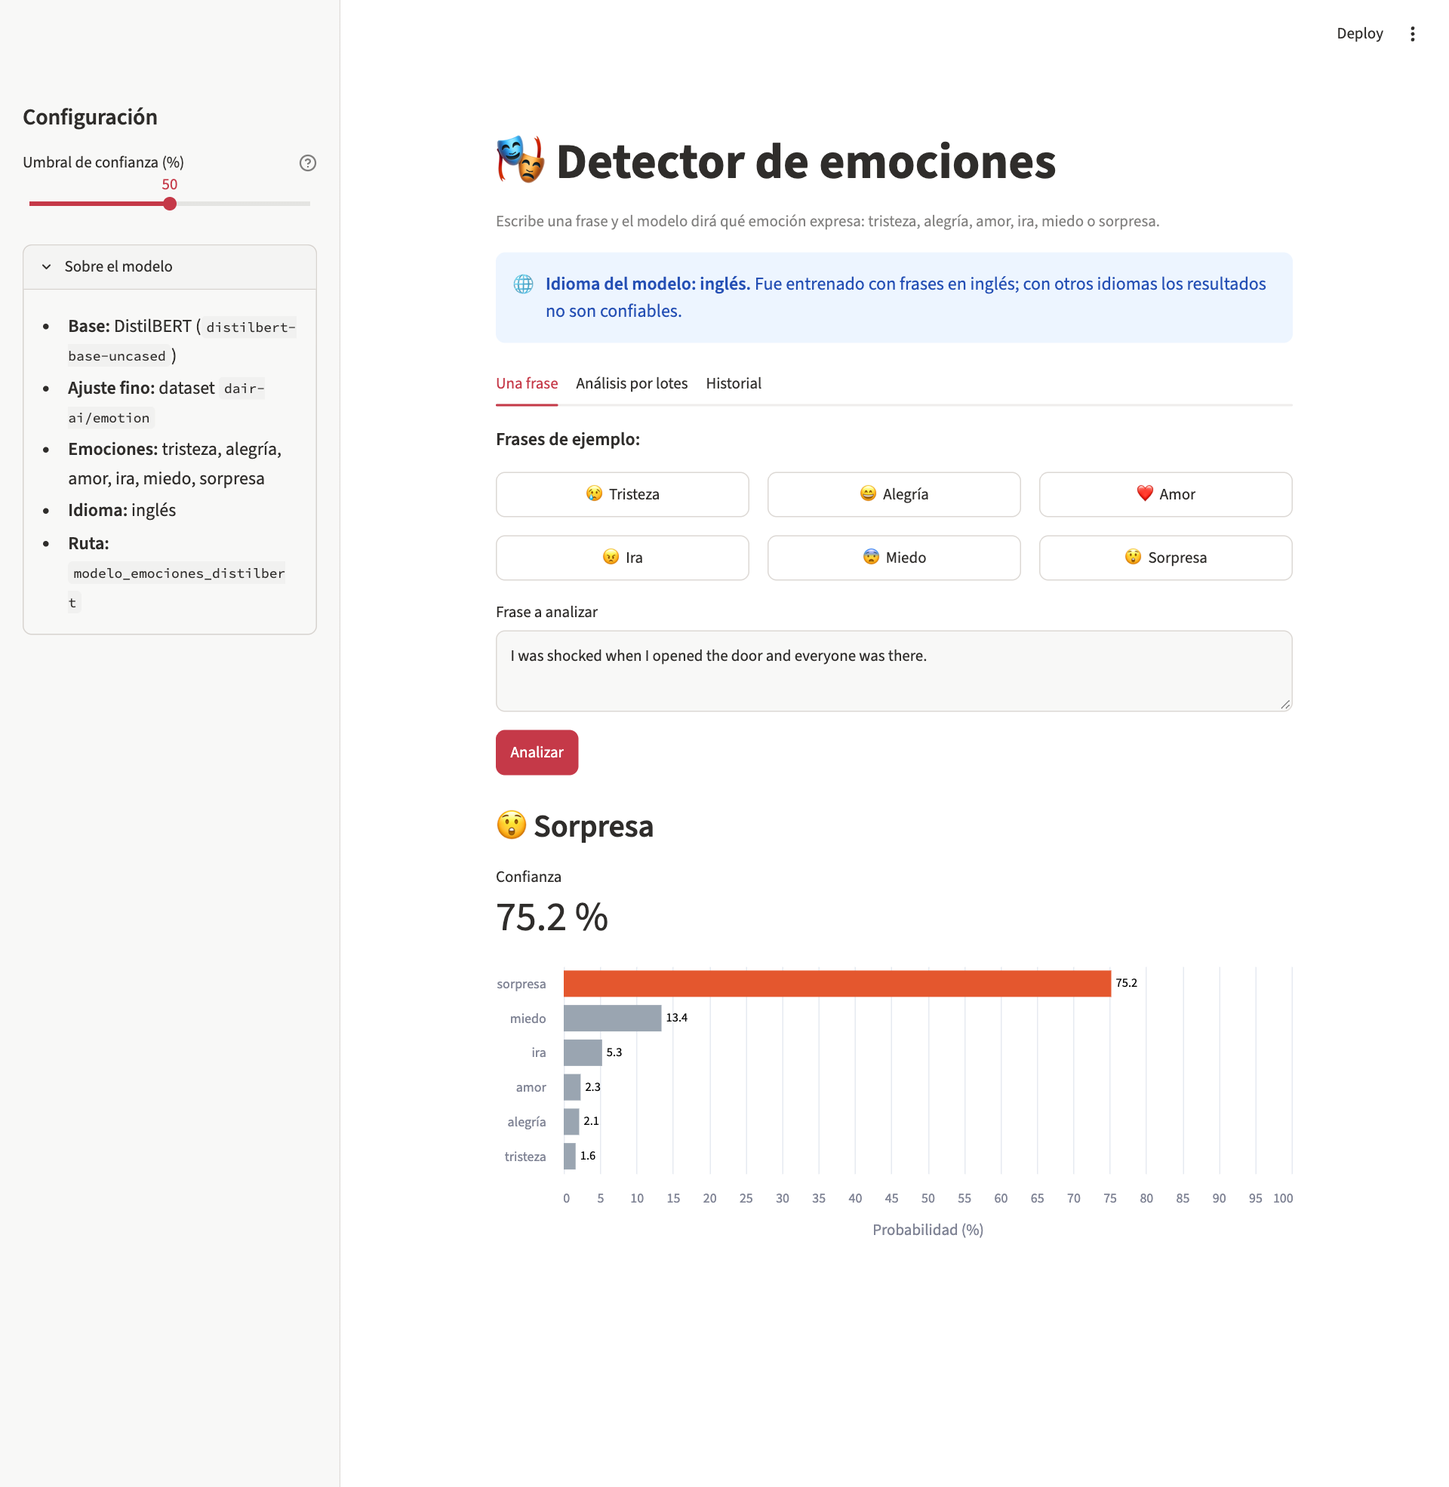
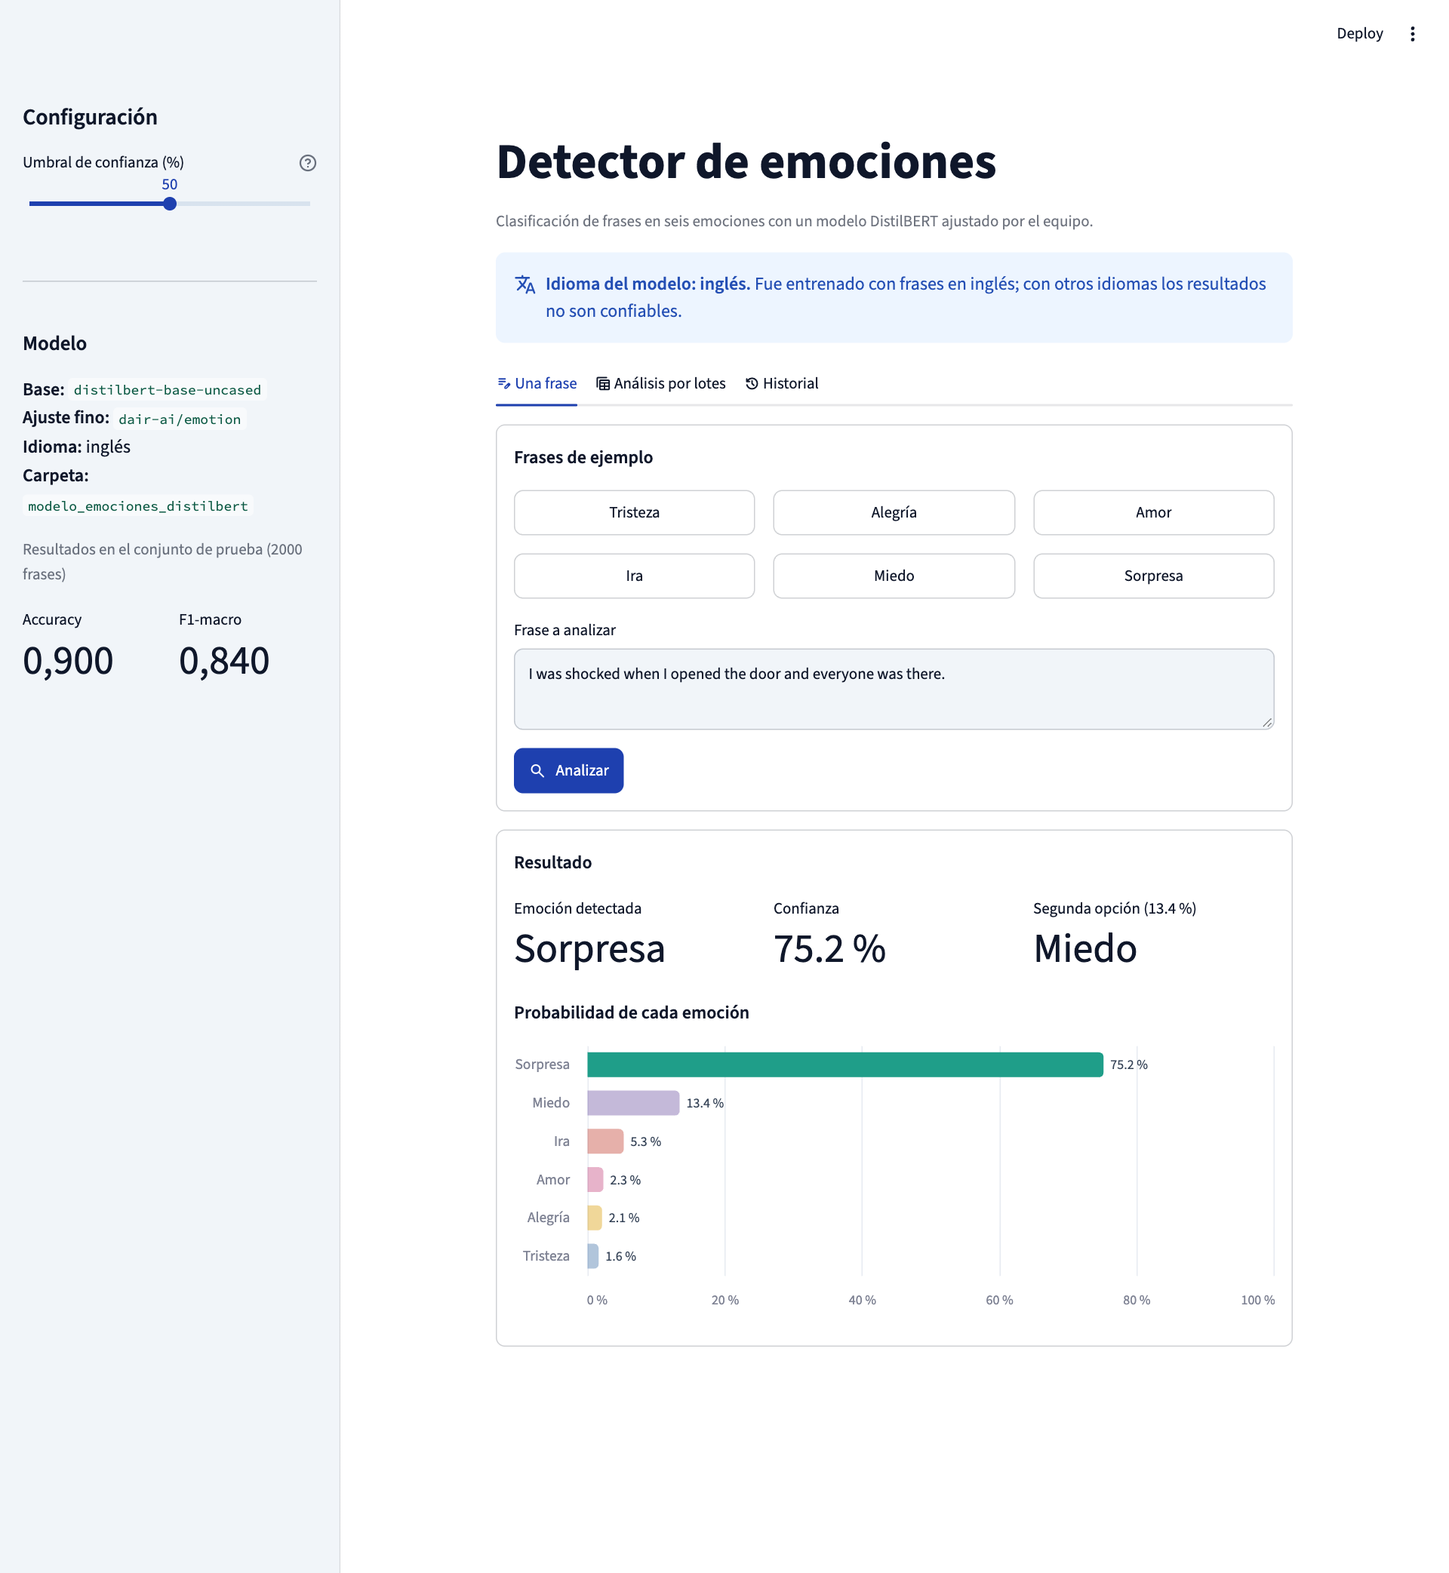
mejora visual

diff --git a/app.py b/app.py
@@ -10,26 +10,34 @@ MODEL_DIR = Path(__file__).parent / "modelo_emociones_distilbert"
 IDIOMA_MODELO = "inglés"
 
 # Etiquetas del dataset dair-ai/emotion (orden original del notebook de clase).
-# Si el modelo guardó nombres genéricos (LABEL_0...), se traducen con este mapa.
+# Si el modelo guardó nombres genéricos (LABEL_0...) o en inglés, se traducen con este mapa.
 ETIQUETAS = {
     "LABEL_0": "tristeza", "LABEL_1": "alegría", "LABEL_2": "amor",
     "LABEL_3": "ira", "LABEL_4": "miedo", "LABEL_5": "sorpresa",
     "sadness": "tristeza", "joy": "alegría", "love": "amor",
     "anger": "ira", "fear": "miedo", "surprise": "sorpresa",
 }
-EMOJIS = {"tristeza": "😢", "alegría": "😄", "amor": "❤",
-          "ira": "😠", "miedo": "😨", "sorpresa": "😲"}
 
-EJEMPLOS = {
-    "😢 Tristeza": "I feel so empty and alone since she left.",
-    "😄 Alegría": "I am so happy, today was the best day of my life!",
-    "❤ Amor": "I feel so loved and cared for when I am with you.",
-    "😠 Ira": "I am furious, they lied to me again.",
-    "😨 Miedo": "I am terrified of walking home alone at night.",
-    "😲 Sorpresa": "I was shocked when I opened the door and everyone was there.",
+# Un color fijo por emoción: se usa en el gráfico y en la distribución del lote.
+COLORES = {
+    "Tristeza": "#3B6EA5", "Alegría": "#D99A00", "Amor": "#C2417A",
+    "Ira": "#C0392B", "Miedo": "#6B4FA0", "Sorpresa": "#1F9E89",
 }
 
-st.set_page_config(page_title="Detector de emociones", page_icon="🎭", layout="centered")
+# Métricas medidas con este modelo sobre el conjunto de prueba (2000 frases), ver README.
+METRICAS_PRUEBA = {"Accuracy": "0,900", "F1-macro": "0,840"}
+
+EJEMPLOS = {
+    "Tristeza": "I feel so empty and alone since she left.",
+    "Alegría": "I am so happy, today was the best day of my life!",
+    "Amor": "I feel so loved and cared for when I am with you.",
+    "Ira": "I am furious, they lied to me again.",
+    "Miedo": "I am terrified of walking home alone at night.",
+    "Sorpresa": "I was shocked when I opened the door and everyone was there.",
+}
+
+st.set_page_config(page_title="Detector de emociones", page_icon=":material/psychology:",
+                   layout="centered")
 
 
 # ---------------------------------------------------------------- modelo
@@ -40,7 +48,8 @@ def cargar_modelo(ruta: str):
 
 
 def traducir(etiqueta: str) -> str:
-    return ETIQUETAS.get(etiqueta, etiqueta)
+    """Devuelve el nombre de la emoción en español y con mayúscula inicial."""
+    return ETIQUETAS.get(etiqueta, etiqueta).capitalize()
 
 
 def a_tabla(salida: list[dict]) -> pd.DataFrame:
@@ -53,6 +62,7 @@ def a_tabla(salida: list[dict]) -> pd.DataFrame:
 
 
 def clasificar(clf, textos: list[str]) -> list[pd.DataFrame]:
+    # truncation=True corta las frases de más de 512 tokens para que el modelo no falle.
     salidas = clf(textos, top_k=None, truncation=True)
     # Con un texto, algunas versiones devuelven lista plana de dicts.
     if salidas and isinstance(salidas[0], dict):
@@ -60,18 +70,44 @@ def clasificar(clf, textos: list[str]) -> list[pd.DataFrame]:
     return [a_tabla(s) for s in salidas]
 
 
-def grafico(df: pd.DataFrame):
-    base = alt.Chart(df).encode(
-        y=alt.Y("Emoción:N", sort="-x", title=None),
-        x=alt.X("Probabilidad (%):Q", scale=alt.Scale(domain=[0, 100]), title="Probabilidad (%)"),
-    )
-    barras = base.mark_bar().encode(
-        tooltip=["Emoción", "Probabilidad (%)"],
-        color=alt.condition(alt.datum["Emoción"] == df.iloc[0]["Emoción"],
-                            alt.value("#e4572e"), alt.value("#9aa5b1")))
-    texto = base.mark_text(align="left", dx=4).encode(text=alt.Text("Probabilidad (%):Q", format=".1f"))
-    return (barras + texto).properties(height=260)
+def escala_colores():
+    """Escala de Altair que asigna a cada emoción su color de COLORES."""
+    return alt.Scale(domain=list(COLORES), range=list(COLORES.values()))
 
+
+def grafico(df: pd.DataFrame):
+    """Barras horizontales ordenadas; la emoción ganadora se ve opaca y el resto atenuado."""
+    df = df.assign(Etiqueta=df["Probabilidad (%)"].map(lambda p: f"{p:.1f} %"))
+    ganadora = df.iloc[0]["Emoción"]
+    base = alt.Chart(df).encode(
+        # La tabla ya viene ordenada de mayor a menor; se usa ese mismo orden en el eje.
+        y=alt.Y("Emoción:N", sort=df["Emoción"].tolist(), title=None,
+                axis=alt.Axis(labelFontSize=13, ticks=False, domain=False)),
+        x=alt.X("Probabilidad (%):Q", scale=alt.Scale(domain=[0, 100]), title=None,
+                axis=alt.Axis(tickCount=5, labelExpr="datum.value + ' %'")),
+    )
+    barras = base.mark_bar(cornerRadiusEnd=4, height=22).encode(
+        color=alt.Color("Emoción:N", scale=escala_colores(), legend=None),
+        opacity=alt.condition(alt.datum["Emoción"] == ganadora, alt.value(1.0), alt.value(0.4)),
+        tooltip=["Emoción", "Probabilidad (%)"])
+    texto = base.mark_text(align="left", dx=6, fontSize=12, color="#334155").encode(text="Etiqueta:N")
+    return (barras + texto).properties(height=250).configure_view(stroke=None)
+
+
+def grafico_distribucion(res: pd.DataFrame):
+    """Cuántas frases del lote cayeron en cada emoción."""
+    conteo = res["Emoción"].value_counts().rename_axis("Emoción").reset_index(name="Frases")
+    return alt.Chart(conteo).mark_bar(cornerRadiusEnd=4, height=22).encode(
+        y=alt.Y("Emoción:N", sort="-x", title=None, axis=alt.Axis(ticks=False, domain=False)),
+        x=alt.X("Frases:Q", title="Número de frases", axis=alt.Axis(tickMinStep=1)),
+        color=alt.Color("Emoción:N", scale=escala_colores(), legend=None),
+        tooltip=["Emoción", "Frases"],
+    ).properties(height=40 * len(conteo) + 30).configure_view(stroke=None)
+
+
+# Muestra la confianza como barra de progreso dentro de las tablas.
+COLUMNA_CONFIANZA = st.column_config.ProgressColumn(
+    "Confianza", min_value=0, max_value=100, format="%.1f %%")
 
 PALABRAS_ES = {"el", "la", "los", "las", "un", "una", "que", "y", "de", "es", "en", "por", "con",
                "para", "pero", "mi", "yo", "me", "estoy", "esta", "está", "muy", "no", "se", "su",
@@ -91,90 +127,112 @@ def cargar_ejemplo(frase: str):
     st.session_state["texto"] = frase
 
 
-# ---------------------------------------------------------------- interfaz
-st.title("🎭 Detector de emociones")
-st.caption("Escribe una frase y el modelo dirá qué emoción expresa: "
-           "tristeza, alegría, amor, ira, miedo o sorpresa.")
-st.info(f"🌐 **Idioma del modelo: {IDIOMA_MODELO}.** Fue entrenado con frases en {IDIOMA_MODELO}; "
-        "con otros idiomas los resultados no son confiables.")
+# ---------------------------------------------------------------- encabezado
+st.title("Detector de emociones")
+st.caption("Clasificación de frases en seis emociones con un modelo DistilBERT ajustado por el equipo.")
+st.info(f"**Idioma del modelo: {IDIOMA_MODELO}.** Fue entrenado con frases en {IDIOMA_MODELO}; "
+        "con otros idiomas los resultados no son confiables.", icon=":material/translate:")
 
 # Validación: carpeta del modelo (debe existir y contener config.json)
 if not (MODEL_DIR / "config.json").is_file():
     st.error(f"No se encontró la carpeta del modelo `{MODEL_DIR.name}` (o está vacía). "
              "Colócala junto a `app.py` con config.json, pesos y tokenizador (ver README) "
-             "y recarga la página.")
+             "y recarga la página.", icon=":material/error:")
     st.stop()
 
 try:
     clf = cargar_modelo(str(MODEL_DIR))
 except Exception as e:  # carpeta existe pero está incompleta/corrupta
-    st.error(f"No se pudo cargar el modelo: {e}")
+    st.error(f"No se pudo cargar el modelo: {e}", icon=":material/error:")
     st.stop()
 
-st.sidebar.header("Configuración")
-umbral = st.sidebar.slider("Umbral de confianza (%)", 0, 100, 50,
-                           help="Si la probabilidad de la emoción principal es menor, "
-                                "la app avisa que el modelo no está seguro.")
-with st.sidebar.expander("Sobre el modelo", expanded=True):
-    st.markdown(f"- **Base:** DistilBERT (`distilbert-base-uncased`)\n"
-                "- **Ajuste fino:** dataset `dair-ai/emotion`\n"
-                "- **Emociones:** tristeza, alegría, amor, ira, miedo, sorpresa\n"
-                f"- **Idioma:** {IDIOMA_MODELO}\n"
-                f"- **Ruta:** `{MODEL_DIR.name}`")
+# ---------------------------------------------------------------- barra lateral
+with st.sidebar:
+    st.header("Configuración")
+    umbral = st.slider("Umbral de confianza (%)", 0, 100, 50,
+                       help="Si la probabilidad de la emoción principal es menor, "
+                            "la app avisa que el modelo no está seguro.")
+    st.divider()
+    st.subheader("Modelo")
+    st.markdown(f"**Base:** `distilbert-base-uncased`  \n"
+                "**Ajuste fino:** `dair-ai/emotion`  \n"
+                f"**Idioma:** {IDIOMA_MODELO}  \n"
+                f"**Carpeta:** `{MODEL_DIR.name}`")
+    st.caption("Resultados en el conjunto de prueba (2000 frases)")
+    for col, (nombre, valor) in zip(st.columns(2), METRICAS_PRUEBA.items()):
+        col.metric(nombre, valor)
+
 st.session_state.setdefault("historial", [])
 
-tab1, tab2, tab3 = st.tabs(["Una frase", "Análisis por lotes", "Historial"])
+tab1, tab2, tab3 = st.tabs([":material/edit_note: Una frase",
+                            ":material/table_view: Análisis por lotes",
+                            ":material/history: Historial"])
 
-# ---- Una frase
+# ---------------------------------------------------------------- una frase
 with tab1:
-    st.write("**Frases de ejemplo:**")
-    cols = st.columns(3)
-    for i, (nombre, frase) in enumerate(EJEMPLOS.items()):
-        cols[i % 3].button(nombre, key=f"ej{i}", on_click=cargar_ejemplo, args=(frase,),
-                           width="stretch")
+    with st.container(border=True):
+        st.markdown("**Frases de ejemplo**")
+        cols = st.columns(3)
+        for i, (nombre, frase) in enumerate(EJEMPLOS.items()):
+            cols[i % 3].button(nombre, key=f"ej{i}", on_click=cargar_ejemplo, args=(frase,),
+                               width="stretch")
 
-    texto = st.text_area("Frase a analizar", key="texto", height=100,
-                         placeholder="Ej.: I can't believe how happy I am today")
-    if st.button("Analizar", type="primary"):
+        texto = st.text_area("Frase a analizar", key="texto", height=100,
+                             placeholder="Ej.: I can't believe how happy I am today")
+        analizar = st.button("Analizar", type="primary", icon=":material/search:")
+
+    if analizar:
         if not texto.strip():
-            st.warning("Escribe una frase antes de analizar.")
+            st.warning("Escribe una frase antes de analizar.", icon=":material/edit:")
         else:
             if parece_espanol(texto):
                 st.warning("La frase parece estar en español. El modelo fue entrenado en "
-                           f"{IDIOMA_MODELO}, así que el resultado puede no ser confiable.")
+                           f"{IDIOMA_MODELO}, así que el resultado puede no ser confiable.",
+                           icon=":material/translate:")
             tabla = clasificar(clf, [texto])[0]
-            top = tabla.iloc[0]
-            st.subheader(f"{EMOJIS.get(top['Emoción'], '')} {top['Emoción'].capitalize()}")
-            st.metric("Confianza", f"{top['Probabilidad (%)']:.1f} %")
-            if top["Probabilidad (%)"] < umbral:
-                st.warning(f"⚠ Confianza baja (menor a {umbral} %). "
-                           "Interpreta este resultado con cautela.")
-            st.altair_chart(grafico(tabla), width="stretch")
+            top, segunda = tabla.iloc[0], tabla.iloc[1]
+
+            with st.container(border=True):
+                st.markdown("**Resultado**")
+                c1, c2, c3 = st.columns(3)
+                c1.metric("Emoción detectada", top["Emoción"])
+                c2.metric("Confianza", f"{top['Probabilidad (%)']:.1f} %")
+                c3.metric(f"Segunda opción ({segunda['Probabilidad (%)']:.1f} %)",
+                          segunda["Emoción"])
+                if top["Probabilidad (%)"] < umbral:
+                    st.warning(f"Confianza baja (menor a {umbral} %). "
+                               "Interpreta este resultado con cautela.", icon=":material/warning:")
+                st.markdown("**Probabilidad de cada emoción**")
+                st.altair_chart(grafico(tabla), width="stretch")
+
             st.session_state["historial"].append({
                 "Frase": texto.strip(), "Emoción": top["Emoción"],
                 "Confianza (%)": float(top["Probabilidad (%)"])})
 
-# ---- Lotes
+# ---------------------------------------------------------------- lotes
 with tab2:
-    st.write("Una frase por línea, o sube un CSV con una columna de texto.")
-    modo = st.radio("Origen", ["Escribir líneas", "Archivo CSV"], horizontal=True)
-    frases: list[str] = []
-    if modo == "Escribir líneas":
-        bloque = st.text_area("Frases (una por línea)", height=150, key="lote")
-        frases = [l.strip() for l in bloque.splitlines() if l.strip()]
-    else:
-        archivo = st.file_uploader("CSV", type="csv")
-        if archivo is not None:
-            try:
-                datos = pd.read_csv(archivo)
-                col = st.selectbox("Columna con el texto", datos.columns)
-                frases = datos[col].dropna().astype(str).str.strip().tolist()
-                frases = [f for f in frases if f]
-            except Exception as e:
-                st.error(f"No se pudo leer el CSV: {e}")
-    if st.button("Analizar lote"):
+    with st.container(border=True):
+        st.markdown("**Varias frases a la vez**: una por línea, o un CSV con una columna de texto.")
+        modo = st.radio("Origen", ["Escribir líneas", "Archivo CSV"], horizontal=True)
+        frases: list[str] = []
+        if modo == "Escribir líneas":
+            bloque = st.text_area("Frases (una por línea)", height=150, key="lote")
+            frases = [l.strip() for l in bloque.splitlines() if l.strip()]
+        else:
+            archivo = st.file_uploader("CSV", type="csv")
+            if archivo is not None:
+                try:
+                    datos = pd.read_csv(archivo)
+                    col = st.selectbox("Columna con el texto", datos.columns)
+                    frases = datos[col].dropna().astype(str).str.strip().tolist()
+                    frases = [f for f in frases if f]
+                except Exception as e:
+                    st.error(f"No se pudo leer el CSV: {e}", icon=":material/error:")
+        analizar_lote = st.button("Analizar lote", type="primary", icon=":material/play_arrow:")
+
+    if analizar_lote:
         if not frases:
-            st.warning("No hay frases para analizar.")
+            st.warning("No hay frases para analizar.", icon=":material/edit:")
         else:
             with st.spinner(f"Analizando {len(frases)} frases..."):
                 tablas = clasificar(clf, frases)
@@ -183,19 +241,34 @@ with tab2:
                 "Emoción": [t.iloc[0]["Emoción"] for t in tablas],
                 "Confianza (%)": [t.iloc[0]["Probabilidad (%)"] for t in tablas]})
             res["Segura"] = (res["Confianza (%)"] >= umbral).map({True: "sí", False: "no"})
-            st.dataframe(res, width="stretch")
-            st.subheader("Distribución de emociones")
-            st.bar_chart(res["Emoción"].value_counts())
-            st.download_button("⬇ Descargar resultados (CSV)",
-                               res.to_csv(index=False).encode("utf-8-sig"),
-                               "resultados_emociones.csv", "text/csv")
 
-# ---- Historial
+            m1, m2, m3 = st.columns(3)
+            m1.metric("Frases analizadas", len(res))
+            m2.metric("Confianza media", f"{res['Confianza (%)'].mean():.1f} %")
+            m3.metric("Bajo el umbral", int((res["Segura"] == "no").sum()))
+
+            st.dataframe(res, width="stretch", hide_index=True,
+                         column_config={"Confianza (%)": COLUMNA_CONFIANZA})
+            st.markdown("**Distribución de emociones**")
+            st.altair_chart(grafico_distribucion(res), width="stretch")
+            st.download_button("Descargar resultados (CSV)",
+                               res.to_csv(index=False).encode("utf-8-sig"),
+                               "resultados_emociones.csv", "text/csv",
+                               icon=":material/download:")
+
+# ---------------------------------------------------------------- historial
 with tab3:
     if st.session_state["historial"]:
-        st.dataframe(pd.DataFrame(st.session_state["historial"]), width="stretch")
-        if st.button("Borrar historial"):
+        hist = pd.DataFrame(st.session_state["historial"])
+        st.dataframe(hist, width="stretch", hide_index=True,
+                     column_config={"Confianza (%)": COLUMNA_CONFIANZA})
+        b1, b2 = st.columns(2)
+        b1.download_button("Descargar historial (CSV)",
+                           hist.to_csv(index=False).encode("utf-8-sig"),
+                           "historial_emociones.csv", "text/csv",
+                           icon=":material/download:", width="stretch")
+        if b2.button("Borrar historial", icon=":material/delete:", width="stretch"):
             st.session_state["historial"] = []
             st.rerun()
     else:
-        st.write("Aún no has analizado frases en esta sesión.")
+        st.caption("Aún no has analizado frases en esta sesión.")

diff --git a/README.md b/README.md
@@ -1,4 +1,4 @@
-# 🎭 Detector de emociones con DistilBERT + Streamlit
+# Detector de emociones con DistilBERT + Streamlit
 
 Aplicación web que recibe una frase en **inglés** y devuelve la emoción que expresa (tristeza, alegría, amor, ira, miedo o sorpresa), la confianza del modelo y un gráfico con las probabilidades de las seis emociones.
 
@@ -55,6 +55,7 @@ proyecto/
 ├── requirements.txt               dependencias
 ├── README.md
 ├── .gitignore                     excluye la carpeta del modelo
+├── .streamlit/config.toml         tema visual (colores y tipografía)
 ├── entrenar_modelo.py             regenera el modelo si no lo tienes
 ├── probar_app.py                  prueba automática de app.py
 ├── capturas/                      capturas de pantalla del README
@@ -65,8 +66,8 @@ proyecto/
 
 **Obligatorias**
 - Campo de texto y botón **Analizar**.
-- Emoción detectada (con emoji) y confianza en porcentaje.
-- Gráfico de barras con las seis emociones, ordenado de mayor a menor y con el porcentaje en cada barra; la emoción ganadora se resalta en otro color.
+- Emoción detectada, confianza en porcentaje y segunda emoción más probable, en tarjetas de resultado.
+- Gráfico de barras con las seis emociones, ordenado de mayor a menor y con el porcentaje en cada barra; cada emoción tiene su color y la ganadora se ve resaltada.
 - Modelo cargado una sola vez con `@st.cache_resource` (Streamlit lo reutiliza en cada interacción).
 - Validaciones: aviso si la frase está vacía (o solo tiene espacios); mensaje de error si la carpeta del modelo no existe o está vacía; si la carpeta existe pero el modelo está dañado, se muestra el error sin que la app se caiga.
 - Frases largas: se usa `truncation=True`, así que el texto se corta a 512 tokens (probado con una frase de ~3000 palabras: no falla).
@@ -74,8 +75,8 @@ proyecto/
 
 **Adicionales implementadas (4)**
 1. **Umbral de confianza:** control deslizante en la barra lateral (50 % por defecto); si la emoción principal queda por debajo, aparece una advertencia.
-2. **Análisis por lotes:** una frase por línea o un archivo CSV (se elige la columna de texto); tabla con emoción, confianza y si supera el umbral, gráfico de distribución y botón para descargar los resultados en CSV.
-3. **Historial:** las frases analizadas en la sesión se guardan con `st.session_state` y se pueden borrar.
+2. **Análisis por lotes:** una frase por línea o un archivo CSV (se elige la columna de texto); resumen (frases analizadas, confianza media y cuántas quedan bajo el umbral), tabla con la confianza como barra de progreso, gráfico de distribución y botón para descargar los resultados en CSV.
+3. **Historial:** las frases analizadas en la sesión se guardan con `st.session_state`; se pueden descargar en CSV o borrar.
 4. **Frases de ejemplo:** seis botones, uno por emoción, que cargan una frase de prueba en el campo de texto.
 
 ## Capturas de pantalla
